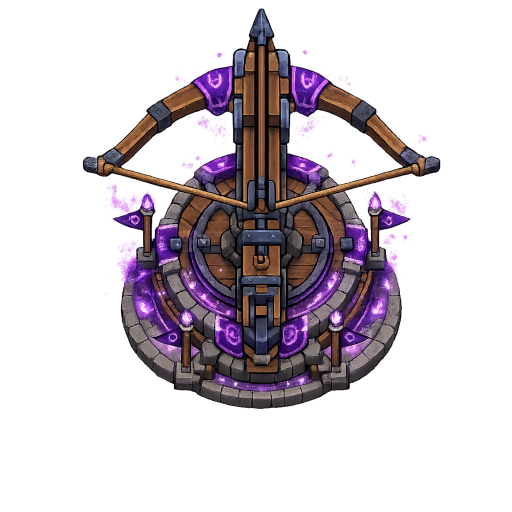
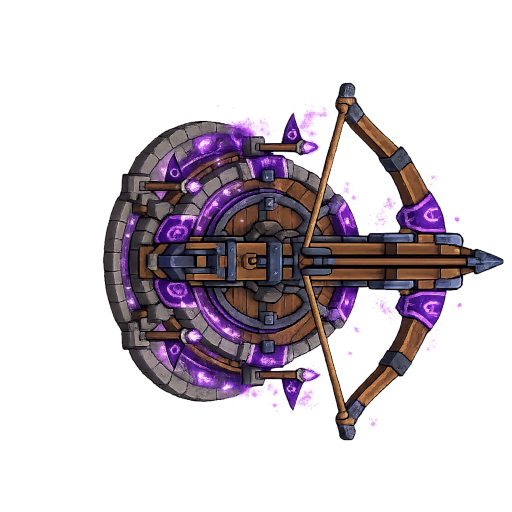
JuegoView Terminada
Acepta Resize, tiene todos los elementos con su respectivo id y onAction, Ademas, edite la direccion de la imagen de las ballestas para sigan la convencion de javafx

diff --git a/src/main/resources/cr/ac/una/kingdomfantasy/style/MainStyle.css b/src/main/resources/cr/ac/una/kingdomfantasy/style/MainStyle.css
@@ -196,9 +196,9 @@
 }
 
 .jfx-btn-primary,
+.jfx-btn-pause,
 .jfx-btn-upgrade,
 .jfx-btn-skin,
-.jfx-btn-pause,
 .jfx-btn-ghost,
 .jfx-btn-green,
 .jfx-btn-menu-corner,

diff --git a/src/main/java/cr/ac/una/kingdomfantasy/controller/JuegoController.java b/src/main/java/cr/ac/una/kingdomfantasy/controller/JuegoController.java
@@ -4,10 +4,15 @@
  */
 package cr.ac.una.kingdomfantasy.controller;
 
+import io.github.palexdev.materialfx.controls.MFXButton;
 import java.net.URL;
 import java.util.ResourceBundle;
+import javafx.event.ActionEvent;
 import javafx.fxml.FXML;
 import javafx.fxml.Initializable;
+import javafx.scene.Group;
+import javafx.scene.control.Label;
+import javafx.scene.control.ProgressBar;
 import javafx.scene.image.ImageView;
 import javafx.scene.layout.AnchorPane;
 import javafx.scene.layout.Pane;
@@ -20,11 +25,18 @@ import javafx.scene.shape.Rectangle;
  * @author andrew
  */
 public class JuegoController extends Controller implements Initializable {
+    
+    private static final Integer BASE_WIDTH = 960;
+    private static final Integer BASE_HEIGHT = 540;
+    private static final Integer CASTLE_ZONE_W = 215;
+    private static final Integer CASTLE_ZONE_H = 540;
+    private static final Integer ACTOR_PANE_W = 960;
+    private static final Integer ACTOR_PANE_H = 400;
 
     @FXML
     private AnchorPane root;
     @FXML
-    private StackPane battlefieldFrame;
+    private Pane battlefieldFrame;
     @FXML
     private Pane gameWorld;
     @FXML
@@ -41,6 +53,48 @@ public class JuegoController extends Controller implements Initializable {
     private Pane projectilePane;
     @FXML
     private Pane effectsPane;
+    @FXML
+    private MFXButton btnPause;
+    @FXML
+    private Label lblLevel;
+    @FXML
+    private Label lblWaveValue;
+    @FXML
+    private ProgressBar prgWave;
+    @FXML
+    private Label lblLevelPoints;
+    @FXML
+    private Label lblScoreMultiplier;
+    @FXML
+    private MFXButton btnHeroPortrait;
+    @FXML
+    private ImageView imvHeroPortrait;
+    @FXML
+    private MFXButton btnMeteorSpell;
+    @FXML
+    private ImageView imvMeteorSpell;
+    @FXML
+    private MFXButton btnIceSpell;
+    @FXML
+    private ImageView imvIceSpell;
+    @FXML
+    private Label lblCastleValue;
+    @FXML
+    private ProgressBar prgCastle;
+    @FXML
+    private Label lblManaValue;
+    @FXML
+    private ProgressBar prgMana;
+    @FXML
+    private StackPane pauseOverlay;
+    @FXML
+    private ImageView imvOverlayAnimation;
+    @FXML
+    private MFXButton btnResumeOverlay;
+    @FXML
+    private MFXButton btnBackToImprovements;
+    @FXML
+    private MFXButton btnBackToMainMenu;
 
     /**
      * Initializes the controller class.
@@ -49,10 +103,37 @@ public class JuegoController extends Controller implements Initializable {
     public void initialize(URL url, ResourceBundle rb) {
       imvBattlefield.fitHeightProperty().bind(root.heightProperty());
       imvBattlefield.fitWidthProperty().bind(root.widthProperty());
+      gameWorld.setManaged(false);
+      root.widthProperty().addListener((ov,oldVal,newVal) -> updateScale());
+      root.heightProperty().addListener((ov,oldVal,newVal) -> updateScale());
     }    
 
     @Override
     public void initialize() {
+    }
+
+    @FXML
+    private void onActionPause(ActionEvent event) {
+    }
+
+    @FXML
+    private void onActionHeroPortrait(ActionEvent event) {
+    }
+
+    @FXML
+    private void onActionMeteorSpell(ActionEvent event) {
+    }
+
+    @FXML
+    private void onActionIceSpell(ActionEvent event) {
+    }
+    
+    private void updateScale() {
+        double scaleX = root.getWidth() / (double) BASE_WIDTH;
+        double scaleY = root.getHeight() / (double) BASE_HEIGHT;
+
+        gameWorld.setScaleX(scaleX);
+        gameWorld.setScaleY(scaleY);
     }
     
 }